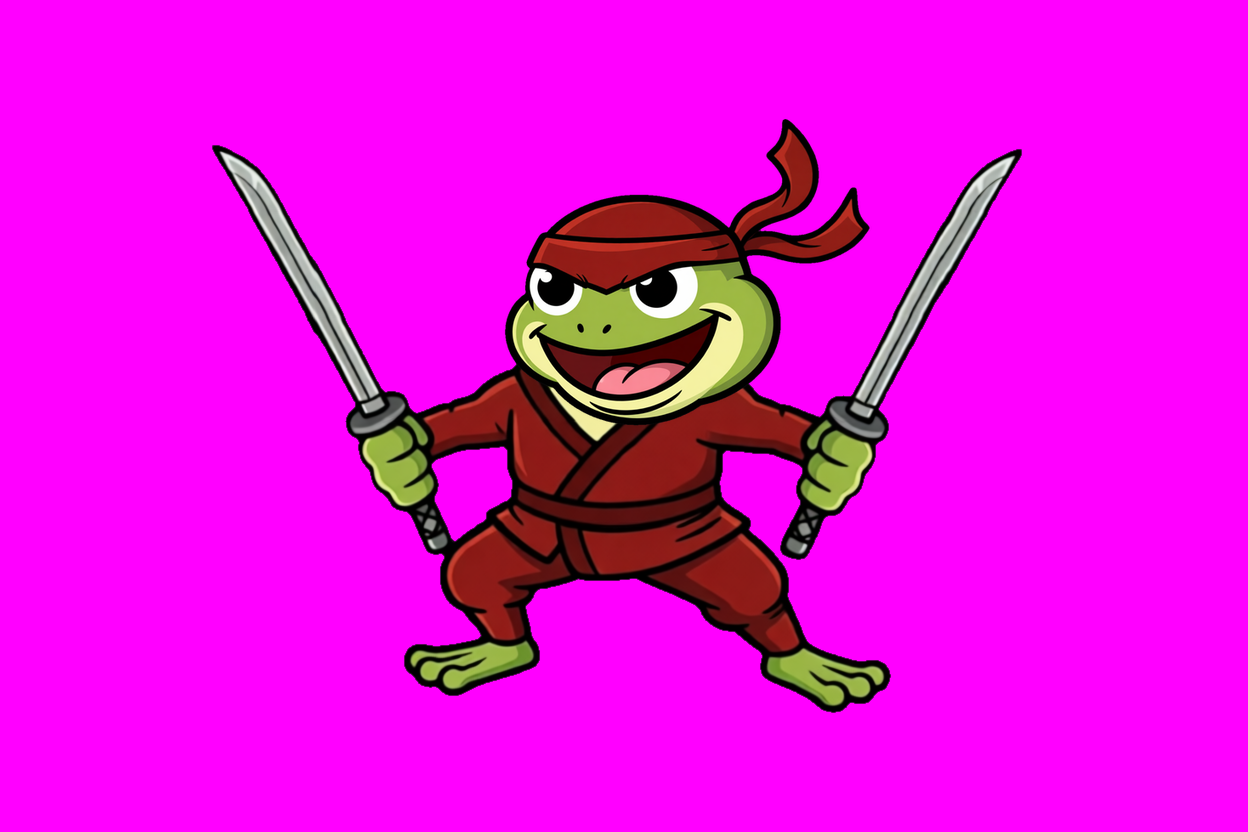
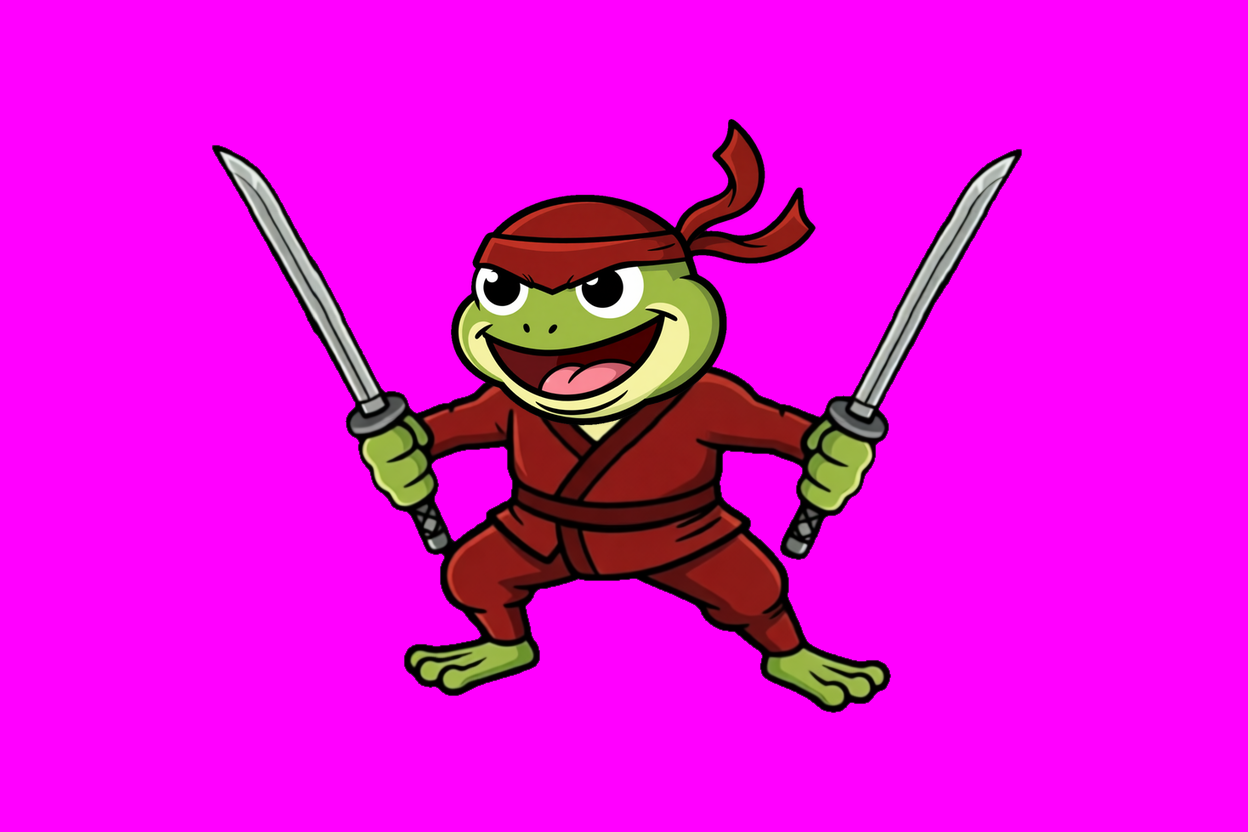
Frog Ninja: tongue up and to a side shows Marek's 'tongue top-left A' (no eyebrows on the headband, mirrored for up-right; the tongue leaves level and bends up, clear of the eyes); the down-side head moved over the body; tongue poses cut straight in and out, no blur

Changed region(s): [[0.3438, 0.125, 0.7188, 0.5312]]

diff --git a/static/js/views/frog-game.js b/static/js/views/frog-game.js
@@ -308,11 +308,12 @@ const FALL_ART = { url: '/img/game/frog/fall.99b86249a9.webp', size: [528, 707],
 const TONGUE_ART = {
     'up': { url: '/img/game/frog/tongue-up.f386ea1479.webp', size: [811, 713], mid: 412, feet: 704, headW: 249, front: true, root: [398, 180], w: 35, dir: [0, -1] },
     'down': { url: '/img/game/frog/tongue-down.3440835897.webp', size: [811, 610], mid: 412, feet: 592, headW: 249, front: true, root: [396, 578], w: 34, dir: [0, 1] },
-    'down-left': { url: '/img/game/frog/tongue-down-left.cdde8902bc.webp', size: [806, 590], mid: 410, feet: 583, headW: 249, front: true, root: [406, 264], w: 35, dir: [-0.707, 0.707] },
+    'down-left': { url: '/img/game/frog/tongue-down-left.fbbcc6113c.webp', size: [806, 590], mid: 410, feet: 583, headW: 249, front: true, root: [352, 264], w: 35, dir: [-0.707, 0.707] },
+    'up-left': { url: '/img/game/frog/tongue-up-left.83ca64de94.webp', size: [806, 564], mid: 410, feet: 557, headW: 249, front: true, root: [371, 190], w: 35, dir: [-0.707, -0.707] },
 };
 // TONGUE_ART:end
-// (the down-left picture looks left; for down-right the same picture, mirrored: faces -1)
-const CUT_POSES = { 'tongue-up': TONGUE_ART.up, 'tongue-down': TONGUE_ART.down, 'tongue-dl': TONGUE_ART['down-left'], 'tongue-dr': { ...TONGUE_ART['down-left'], faces: -1 }, cut: CUT_ART, down: SIDESLASH_ART, over: OVER_ART, under: UNDER_ART, duck: DUCK_ART, rise: RISE_ART, hop: HOP_ART, teeter: TEETER_ART, fall: FALL_ART };
+// (the down-left and up-left pictures look left; for the right, the same picture, mirrored: faces -1)
+const CUT_POSES = { 'tongue-up': TONGUE_ART.up, 'tongue-down': TONGUE_ART.down, 'tongue-dl': TONGUE_ART['down-left'], 'tongue-dr': { ...TONGUE_ART['down-left'], faces: -1 }, 'tongue-ul': TONGUE_ART['up-left'], 'tongue-ur': { ...TONGUE_ART['up-left'], faces: -1 }, cut: CUT_ART, down: SIDESLASH_ART, over: OVER_ART, under: UNDER_ART, duck: DUCK_ART, rise: RISE_ART, hop: HOP_ART, teeter: TEETER_ART, fall: FALL_ART };
 // The twitch (Marek, 2026-11-22: 'a slight directional twitch that currently exists for the upward slash, across all animations'): the overhead slash
 // jumps a little further up for the first two frames and settles (its squash); every other cut pose now does the same along its cut: TWITCH rig units
 // for the smear, TWITCH_HOLD after. tw on a pose: its own direction when that is not the stroke's (down for the dive, up for the hop, none for the duck).
@@ -2435,7 +2436,7 @@ export function mountFrogGame(stage, opts = {}) {
         }
         // a change of pose starts the in-between (only with ?morph=): from the picture last drawn (none: it was standing) to this one
         if (key !== C.key && C.key !== undefined && phase === 'play') { if (key === 'teeter') snd('teeter'); else if (key !== 'fall') snd('cloth', { kind: !key || key === 'rise' ? 'rustle' : key === 'duck' ? 'crouch' : key === 'hop' ? 'hop' : 'snap' }); }
-        if (key !== C.key) { if (MORPH && MORPH_FX[MORPH] && !reduced && C.key !== undefined) C.m = { t0: now, from: C.prev || null, to: key }; C.key = key; }
+        if (key !== C.key) { if (MORPH && MORPH_FX[MORPH] && !reduced && C.key !== undefined && !/^tongue-/.test(key) && !/^tongue-/.test(C.key || '')) C.m = { t0: now, from: C.prev || null, to: key }; C.key = key; }
         C.prev = cur;
         let m = C.m; if (m && now - m.t0 >= MORPH_MS) m = C.m = null;
         if (m && !on && (artWheelOn() || artBreathOn() || pose.fallY || pose.chop || pose.up <= 0.5)) m = C.m = null;      // (not back to standing but into a cartwheel, a breath, a fall: those are their own pictures, no blend)
@@ -5055,9 +5056,9 @@ export function mountFrogGame(stage, opts = {}) {
         if (poked) gullHit(poked, 'plain');
         snd('tongue');
         // straight up or straight down (within 22.5 degrees): the painted frog for it, the tongue out of its stub; down and to a side
-        // (the next 45 degrees): the frog looking down that way, the tongue out of its open mouth
+        // or up and to a side (the next 45 degrees): the frog looking that way, the tongue out of its open mouth
         const ang = Math.atan2(y - m.y, x - m.x) * 180 / Math.PI;
-        const pic = Math.abs(ang + 90) < 22.5 ? 'tongue-up' : Math.abs(ang - 90) < 22.5 ? 'tongue-down' : Math.abs(ang - 135) <= 22.5 ? 'tongue-dl' : Math.abs(ang - 45) <= 22.5 ? 'tongue-dr' : '';
+        const pic = Math.abs(ang + 90) < 22.5 ? 'tongue-up' : Math.abs(ang - 90) < 22.5 ? 'tongue-down' : Math.abs(ang - 135) <= 22.5 ? 'tongue-dl' : Math.abs(ang - 45) <= 22.5 ? 'tongue-dr' : Math.abs(ang + 135) <= 22.5 ? 'tongue-ul' : Math.abs(ang + 45) <= 22.5 ? 'tongue-ur' : '';
         tongue = { tx: x, ty: y, t: 0, out: 0.04 + d / 5200, back: 0.08, caught: null, hit: false, pic };
     }
     function tongueGrab(x, y) {
@@ -5604,7 +5605,8 @@ export function mountFrogGame(stage, opts = {}) {
         const Q = tongue && tongue.pic && pose.artCut === tongue.pic && artCutOn() ? CUT_POSES[tongue.pic] : null;
         if (!Q) return { x: frogPoint(993, MOUTH_Y).x, y: frogPoint(993, MOUTH_Y).y, w: 0 };
         const k = poseK(Q), X = 993 + (Q.faces || 1) * k * (Q.root[0] - Q.mid), Y = BREATH_ART.rigFeet - k * (Q.feet - Q.root[1]);
-        return { x: fbox.x + fbox.w * X / 1986, y: fbox.y + fbox.h * Y / 1876, w: Q.w * k * fbox.h / 1876 };
+        // bend: up and to a side the eyes are right above the mouth, so the tongue leaves level, sideways, and turns up to its target
+        return { x: fbox.x + fbox.w * X / 1986, y: fbox.y + fbox.h * Y / 1876, w: Q.w * k * fbox.h / 1876, bend: Q.dir[1] < 0 && Q.dir[0] !== 0 };
     }
     function tongueTip() {
         const m = tongueRoot();
@@ -6242,6 +6244,8 @@ export function mountFrogGame(stage, opts = {}) {
         out.push({ name: 'tongue straight up', dur: 0.5, start() { tongue = null; const h = head(); shootTongue(h.x, h.y - fw() * 1.6); } });      // (tongue = null: a tongue still out from the shot before would block it)
         out.push({ name: 'tongue straight down', dur: 0.5, start() { tongue = null; const h = head(); shootTongue(h.x, h.y + fw() * 0.9); } });
         out.push({ name: 'tongue down left', dur: 0.5, start() { tongue = null; const h = head(); shootTongue(h.x - fw() * 0.8, h.y + fw() * 0.8); } });
+        out.push({ name: 'tongue up left', dur: 0.5, start() { tongue = null; const h = head(); shootTongue(h.x - fw() * 0.8, h.y - fw() * 0.8); } });
+        out.push({ name: 'tongue up right', dur: 0.5, start() { tongue = null; const h = head(); shootTongue(h.x + fw() * 0.8, h.y - fw() * 0.8); } });
         out.push({ name: 'tongue down right', dur: 0.5, start() { tongue = null; const h = head(); shootTongue(h.x + fw() * 0.8, h.y + fw() * 0.8); } });
         out.push({ name: 'stunned', dur: 0.9, start() { stunT = stunFor = 0.9; headFx = null; } });
         [['watermelon', 'stuck on its head'], ['pineapple', 'stuck on its head'], ['grapes', 'splattered over its face'], ['orange', 'splattered over its face'], ['apple', 'a bump comes up'], ['banana', 'worn as a hat'], ['kiwi', 'eating it'], ['plum', 'eating it']].forEach(([kind, what]) =>
@@ -7199,8 +7203,9 @@ export function mountFrogGame(stage, opts = {}) {
             const { m, x, y } = tongueTip();
             const w = m.w ? Math.max(4, m.w) : clamp(S() * 0.018, 6, 12);      // (out of a painted stub: as wide as the stub)
             ctx.save(); ctx.lineCap = 'round';
-            ctx.strokeStyle = '#0e0e10'; ctx.lineWidth = w + lw * 2; ctx.beginPath(); ctx.moveTo(m.x, m.y); ctx.lineTo(x, y); ctx.stroke();
-            ctx.strokeStyle = '#e9808a'; ctx.lineWidth = w; ctx.beginPath(); ctx.moveTo(m.x, m.y); ctx.lineTo(x, y); ctx.stroke();      // (the palette's tongue)
+            const path = () => { ctx.beginPath(); ctx.moveTo(m.x, m.y); if (m.bend) ctx.quadraticCurveTo(x, m.y, x, y); else ctx.lineTo(x, y); };
+            ctx.strokeStyle = '#0e0e10'; ctx.lineWidth = w + lw * 2; path(); ctx.stroke();
+            ctx.strokeStyle = '#e9808a'; ctx.lineWidth = w; path(); ctx.stroke();      // (the palette's tongue)
             ctx.fillStyle = '#ef9a9a'; ctx.strokeStyle = '#000'; ctx.lineWidth = lw;
             ctx.beginPath(); ctx.arc(x, y, w * 0.95, 0, 7); ctx.fill(); ctx.stroke();
             ctx.restore();
@@ -7398,6 +7403,8 @@ export function mountFrogGame(stage, opts = {}) {
             { name: 'tongue down', anim: 'tongue straight down', at: 0.1 },
             { name: 'tongue down left', anim: 'tongue down left', at: 0.1 },
             { name: 'tongue down right', anim: 'tongue down right', at: 0.1 },
+            { name: 'tongue up left', anim: 'tongue up left', at: 0.1 },
+            { name: 'tongue up right', anim: 'tongue up right', at: 0.1 },
             { name: 'stunned by apple', anim: 'stunned by apple: a bump comes up', at: 0.45 },
             { name: 'eating a plum', anim: 'stunned by plum: eating it', at: 0.45 },
             { name: 'drunk', anim: 'drunk (sake)', at: 0.45 },

diff --git a/design/frog/tools/art_build_tongue.py b/design/frog/tools/art_build_tongue.py
@@ -13,7 +13,9 @@ Writes static/img/game/frog/tongue-<dir>.<hash>.webp and the TONGUE_ART table in
 
 Directions so far: up (head thrown back, only the throat seen), down (chin tucked, tongue down in front of the chest),
 down-left (Marek's pick 'tongue bottom-left B', 2026-11-25: the standing pick's head edited as a 2x close-up, glued back on its
-headless body at 0.85 ("smaller head"), its mouth open; drawn looking left, mirrored for down-right).
+headless body at 0.85 ("smaller head"), moved 54 px left so it sits over the body like the standing frog's head ("too much to
+the side"); drawn looking left, mirrored for down-right), up-left ('tongue top-left A', the bottom-left head turned to look up-left,
+its headband's eyebrows taken out; mirrored for up-right).
 """
 import hashlib, io, os, re
 import numpy as np
@@ -26,7 +28,8 @@ TONGUE = (0xe9, 0x80, 0x8a)                  # palette.json skins.frog.tongue
 SOLES, MID, HEAD_W = 704, 624, 249          # in the source pictures (the standing pick's: its soles, middle, face width)
 # dir: (the tongue's way, as a unit vector; the source row where the game's tongue starts, or (x, y, w): a set root, for a pose
 # with no stub, only the tongue's root in the open mouth)
-DIRS = {'up': ((0, -1), 180), 'down': ((0, 1), 690), 'down-left': ((-0.707, 0.707), (620, 385, 35))}
+DIRS = {'up': ((0, -1), 180), 'down': ((0, 1), 690), 'down-left': ((-0.707, 0.707), (566, 385, 35)),
+        'up-left': ((-0.707, -0.707), (585, 337, 35))}
 
 
 def main():
